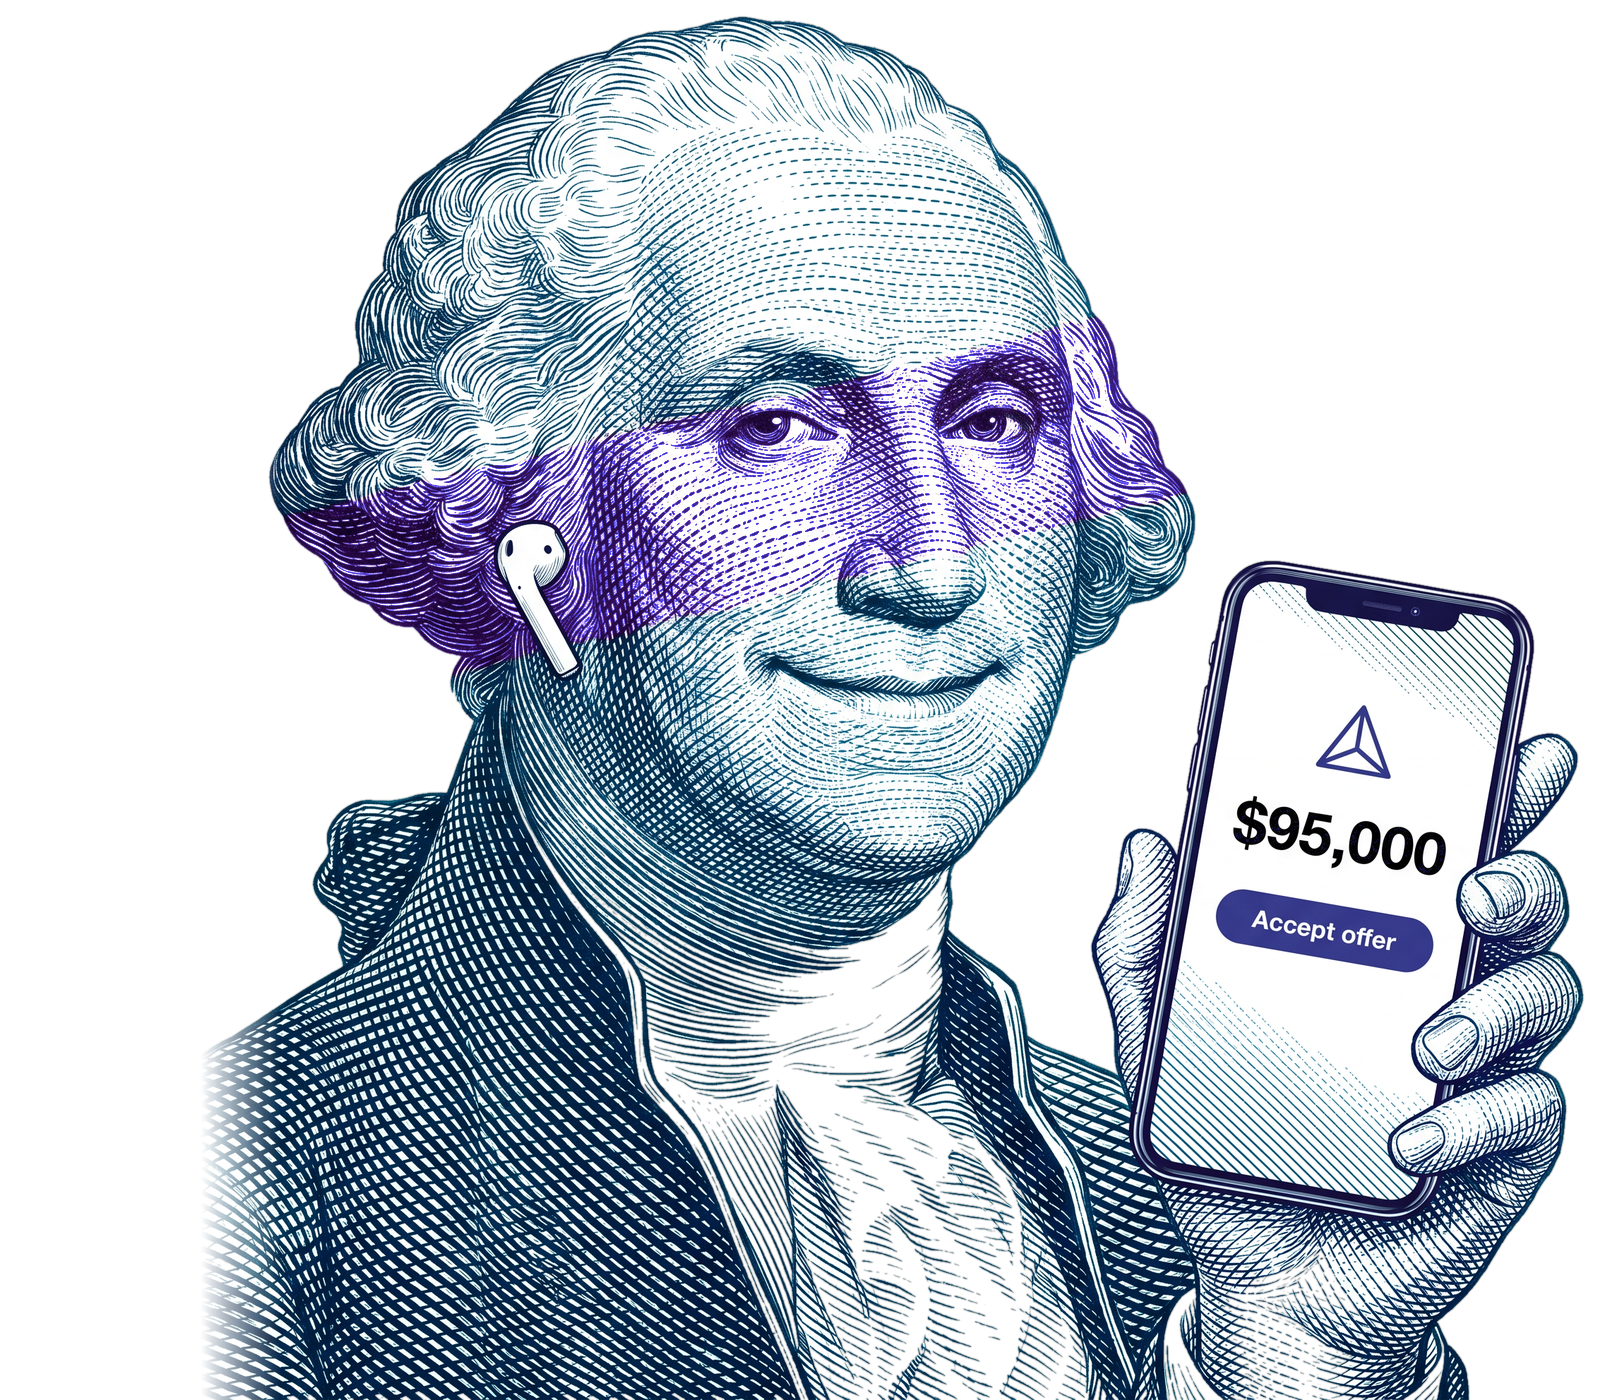
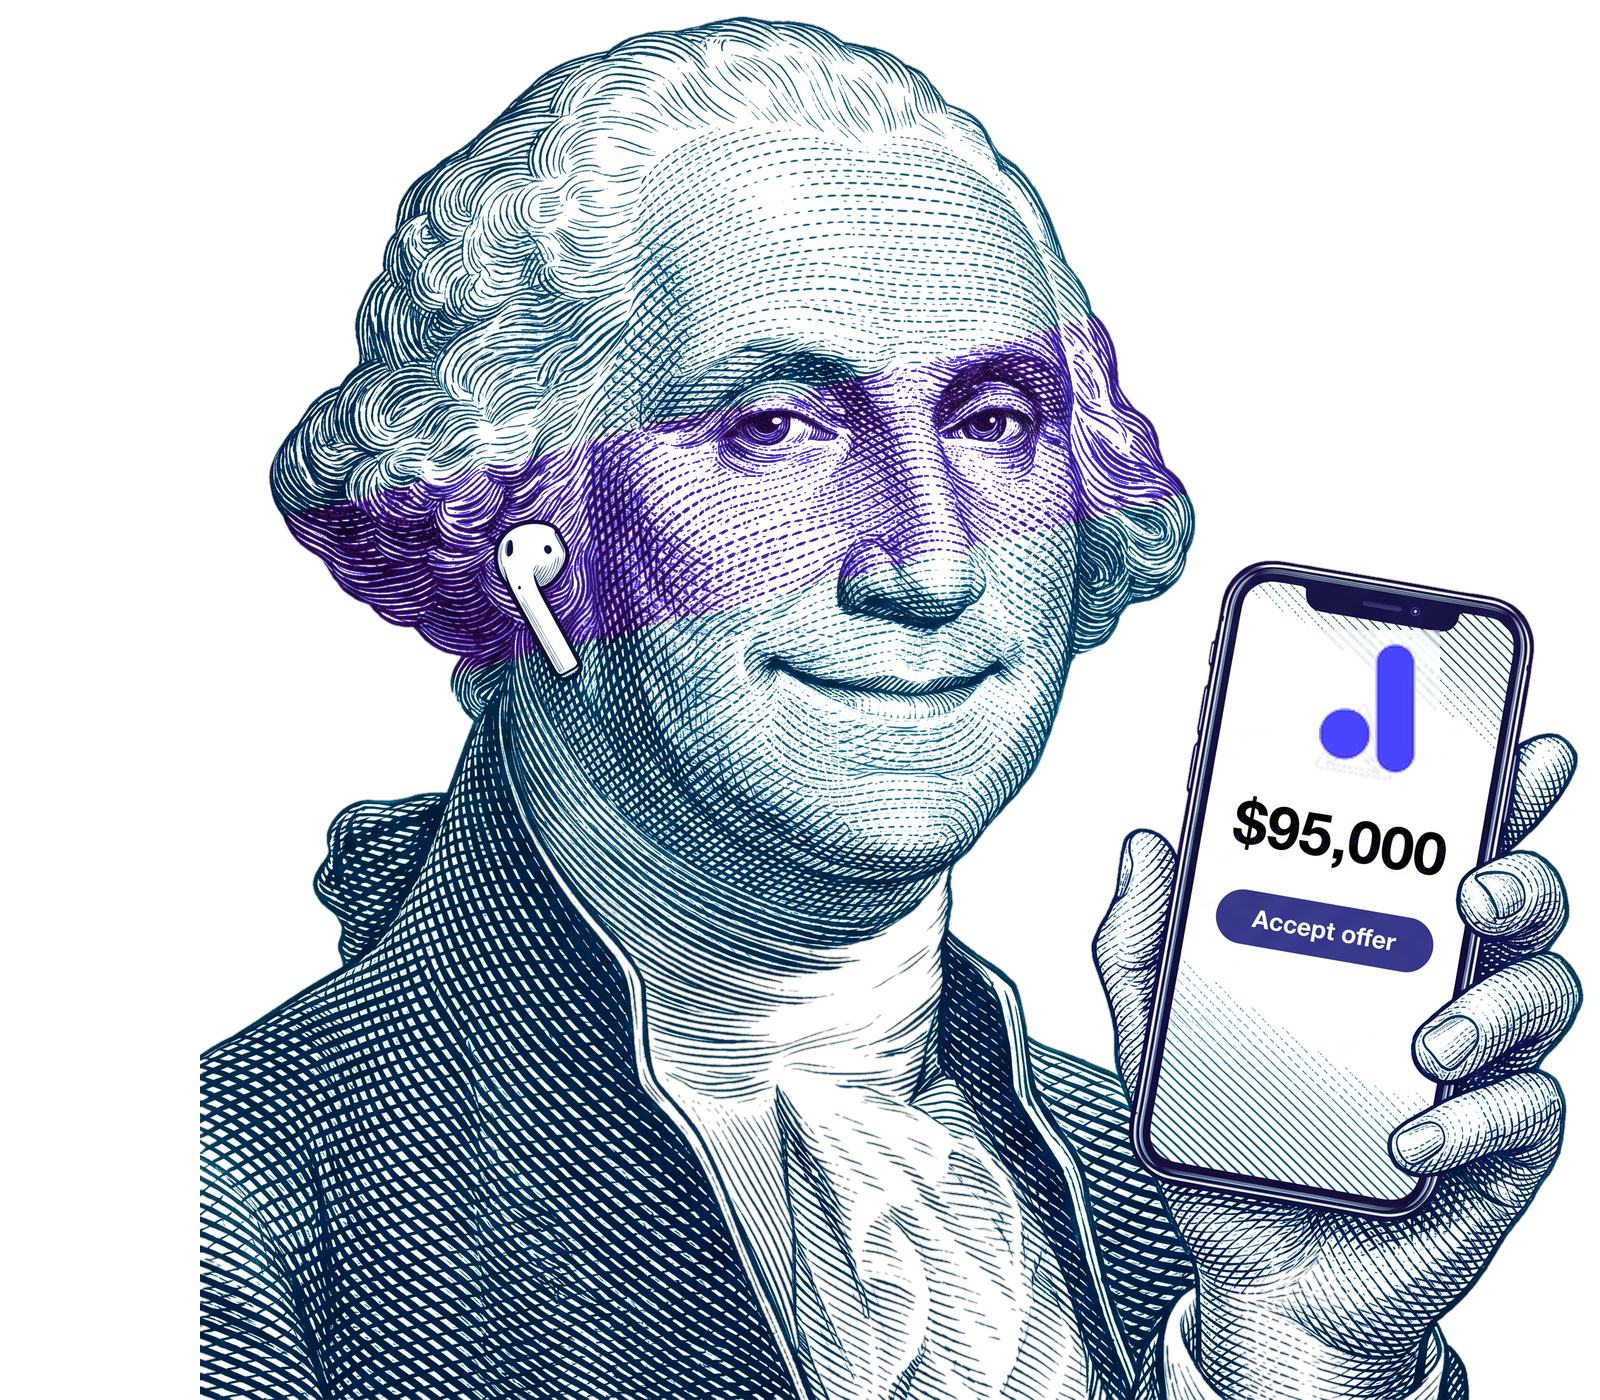
hero: pull Washington off right edge, restore solid shoulder, replace phone triangle with Delt wedge

Changed region(s): [[0.125, 0.7064, 0.1875, 1.0], [0.8125, 0.4607, 0.9062, 0.5529]]

diff --git a/app/variation-1.jsx b/app/variation-1.jsx
@@ -381,18 +381,21 @@ function V1Hero({ accent, onApply }) {
            the section vertically. */
         .v1hero-washington {
           position: absolute;
-          right: 0; bottom: 0;
+          right: 6%; bottom: 0;
           height: 75%; max-height: 675px;
           width: auto;
           z-index: 2; pointer-events: none;
           filter: drop-shadow(0 20px 60px rgba(4,15,40,0.55));
           transform-origin: right bottom;
         }
+        @media (max-width: 1200px) {
+          .v1hero-washington { right: 2%; }
+        }
         @media (max-width: 900px) {
-          .v1hero-washington { right: -10%; bottom: 0; height: 82%; max-height: 620px; opacity: 0.45; }
+          .v1hero-washington { right: -8%; bottom: 0; height: 82%; max-height: 620px; opacity: 0.45; }
         }
         @media (max-width: 560px) {
-          .v1hero-washington { right: -22%; bottom: 0; height: 68%; opacity: 0.28; }
+          .v1hero-washington { right: -20%; bottom: 0; height: 68%; opacity: 0.28; }
         }
       `}</style>
       <img
